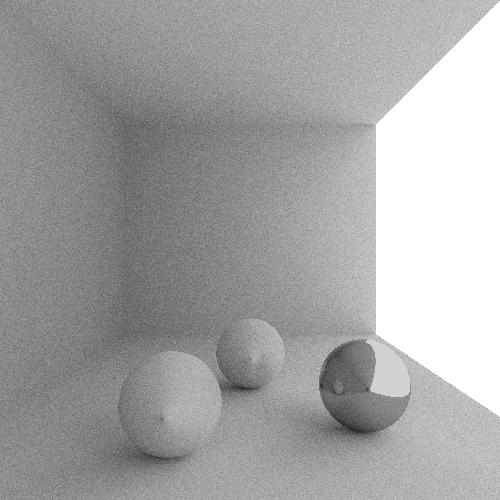
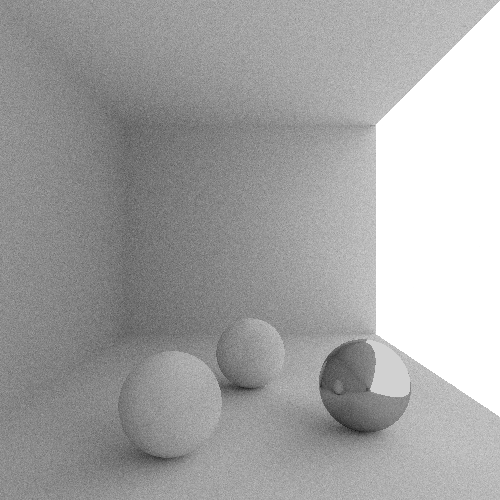
normalize cross vectors upon rotation

Changed region(s): [[0.48, 0.66, 0.54, 0.72], [0.3, 0.81, 0.39, 0.84]]

diff --git a/geometry/vector.go b/geometry/vector.go
@@ -88,12 +88,13 @@ func (vec *Vector) RotateTowards(normal *Vector) *Vector {
 		return NewVector(vec.X, vec.Y, -math.Abs(vec.Z))
 	}
 
-	a1 := upVector.Cross(normal)
-	a2 := a1.Cross(normal)
+	a1 := upVector.Cross(normal).Normalize()
+	a2 := a1.Cross(normal).Normalize()
 
 	p1 := a1.MultiplyScalar(vec.X)
 	p2 := a2.MultiplyScalar(vec.Y)
 	p3 := normal.MultiplyScalar(vec.Z)
 
-	return p1.Add(p2).Add(p3).Normalize()
+	rotatedVector := p1.Add(p2).Add(p3).Normalize()
+	return rotatedVector
 }
